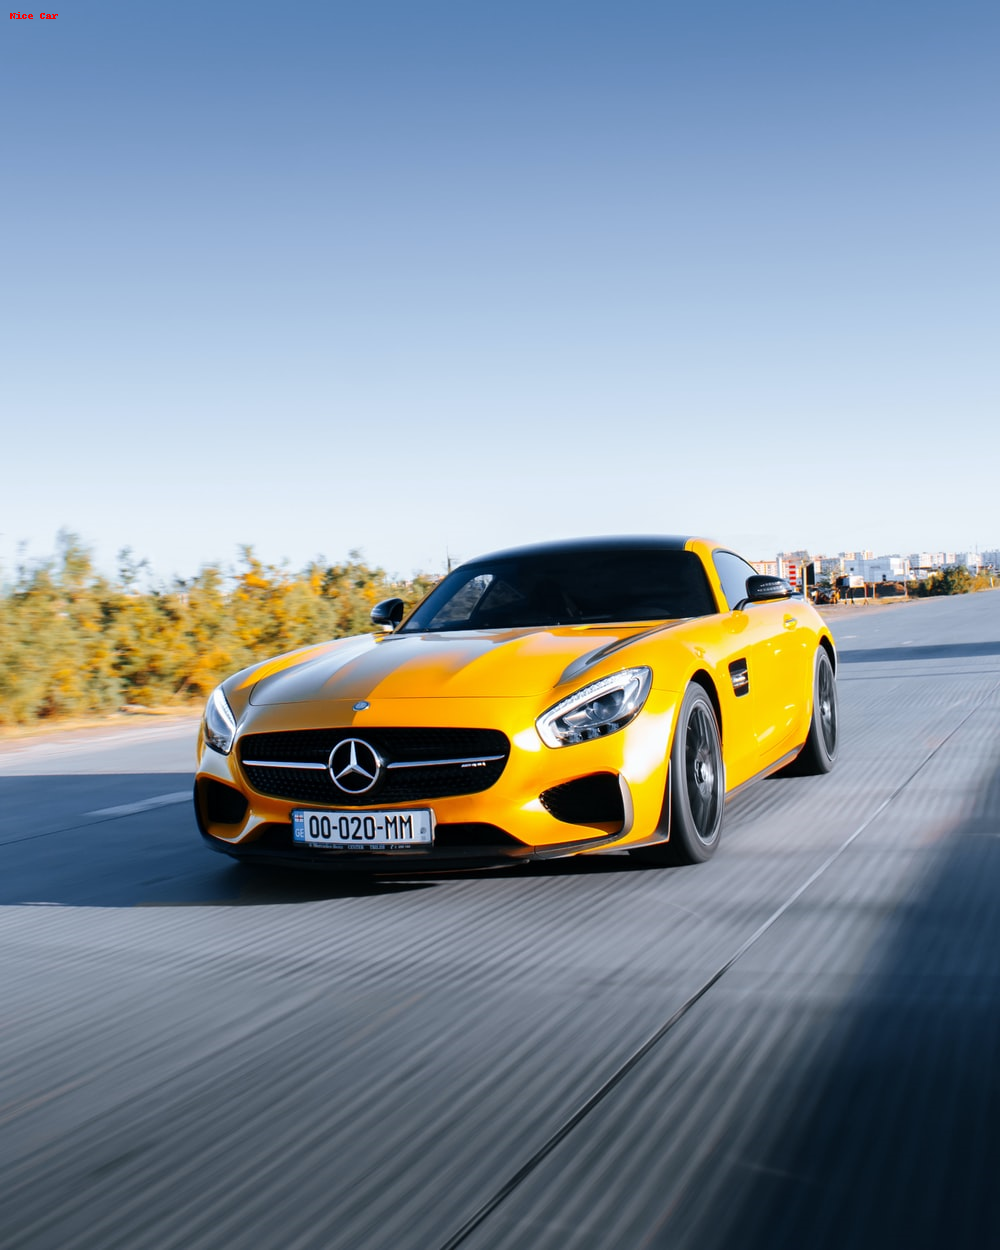
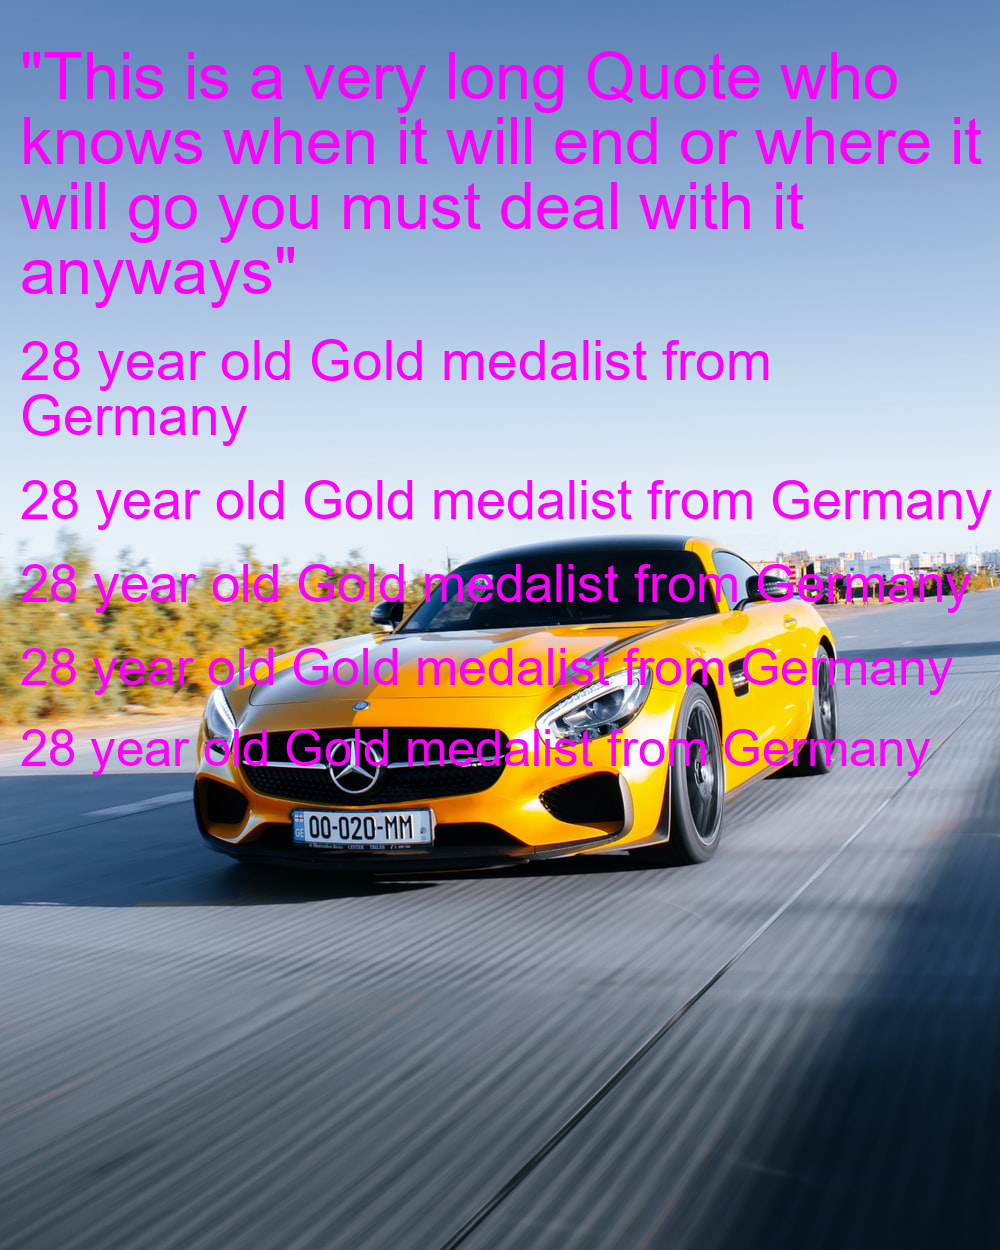
tidying up auto newline

Changed region(s): [[0.0, 0.0312, 0.992, 0.624]]

diff --git a/imageProcessor.py b/imageProcessor.py
@@ -6,107 +6,73 @@ src2 = "sources/text.txt"
 text = open(src2, "r")
 Lines = text.readlines()    #each line is read into an array as a new objec
 
-print(img.width, img.height)
 
-def drawWords(text, x, y, R, G, B, size):   #doubled text writer to work with both windows and mac
-    try:
+def writeWordsWithNewLines(font):
+        fontType = font         #"arial" for Windows, "Arial" for Mac
         # Call draw Method to add 2D graphics in an image
         I1 = ImageDraw.Draw(img)
         # Custom font style and font size
         #myFont = ImageFont.load_default()
-        fontType = "arial"              #"arial" for Windows, "Arial" for Mac
-        myFont = ImageFont.truetype(fontType, size)
+        
+        myFont = ImageFont.truetype(fontType, drawWords.size)
 
-        textsize = myFont.getsize(text)
-        distanceRight = x+textsize[0]
+        textsize = myFont.getsize(drawWords.text)
+        distanceRight = drawWords.x+textsize[0]
 
         
-        print(size)
+        print(drawWords.size)
 
-        newText = text.split()
+        newText = drawWords.text.split()
         printString = ""
         #print(newText)
-        sum = x
+        sum = drawWords.x
 
 
         for a in range(len(newText)):
             printString += newText[a]
             printString += " "
-            wordsize = myFont.getsize(printString)[0] + x
+            wordsize = myFont.getsize(printString)[0] + drawWords.x
             #print(wordsize)
             #sum = sum + myFont.getsize(a)[0]
 
             
             if a!=len(newText)-1:
                 if wordsize + myFont.getsize(newText[a+1])[0] > img.width:
-                    textPosition = (x, y) # (x, y) from top left
-                    fontColour = (R,G,B) #rgb colour values
+                    textPosition = (drawWords.x, drawWords.y) # (x, y) from top left
+                    fontColour = (drawWords.R,drawWords.G,drawWords.B) #rgb colour values
                     I1.text(textPosition, printString, font=myFont, fill =fontColour)
 
-                    y=y+size
+                    drawWords.y=drawWords.y+drawWords.size
                     printString = ""
 
             else: 
                 #if wordsize + myFont.getsize(newText[a+1])[0] > img.width:
-                    textPosition = (x, y) # (x, y) from top left
-                    fontColour = (R,G,B) #rgb colour values
+                    textPosition = (drawWords.x, drawWords.y) # (x, y) from top left
+                    fontColour = (drawWords.R,drawWords.G,drawWords.B) #rgb colour values
                     I1.text(textPosition, printString, font=myFont, fill =fontColour)
 
-                    y=y+size
-
-        return y
-
-            
+                    drawWords.y=drawWords.y+drawWords.size
 
 
+
+def drawWords(text, x, y, R, G, B, size):   #doubled text writer to work with both windows and mac
+    drawWords.text = text
+    drawWords.x = x
+    drawWords.y = y
+    drawWords.R = R
+    drawWords.G = G
+    drawWords.B = B
+    drawWords.size = size
+
+
+    try:
+        writeWordsWithNewLines("arial")
 
     except OSError:
-        # Call draw Method to add 2D graphics in an image
-        I1 = ImageDraw.Draw(img)
-        # Custom font style and font size   
-        #myFont = ImageFont.load_default()
-        fontType = "Arial"              # "arial" for Windows, "Arial" for Mac
-        myFont = ImageFont.truetype(fontType, size)
+        writeWordsWithNewLines("Arial")
 
-        
-        textsize = myFont.getsize(text)
-        distanceRight = x+textsize[0]
-
-        
-        print(size)
-
-        newText = text.split()
-        printString = ""
-        #print(newText)
-        sum = x
-
-
-        for a in range(len(newText)):
-            printString += newText[a]
-            printString += " "
-            wordsize = myFont.getsize(printString)[0] + x
-            #print(wordsize)
-            #sum = sum + myFont.getsize(a)[0]
-
-            
-            if a!=len(newText)-1:
-                if wordsize + myFont.getsize(newText[a+1])[0] > img.width:
-                    textPosition = (x, y) # (x, y) from top left
-                    fontColour = (R,G,B) #rgb colour values
-                    I1.text(textPosition, printString, font=myFont, fill =fontColour)
-
-                    y=y+size
-                    printString = ""
-
-            else: 
-                #if wordsize + myFont.getsize(newText[a+1])[0] > img.width:
-                    textPosition = (x, y) # (x, y) from top left
-                    fontColour = (R,G,B) #rgb colour values
-                    I1.text(textPosition, printString, font=myFont, fill =fontColour)
-
-                    y=y+size
-
-        return y
+    return drawWords.y
+    
 
 
 #draw 3 simple magentas lines from the text
@@ -122,4 +88,4 @@ nexty = drawWords(Lines[1], 20, nexty+30, 255, 0, 255, 51)
 
 img.show()  #temporarily shows the created image
 
-img.save("car2.png")    # Save the image
+img.save(".gitignore/car2.png")    # Save the image
